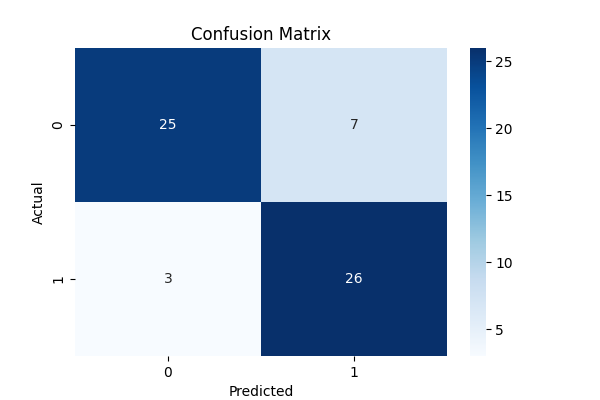
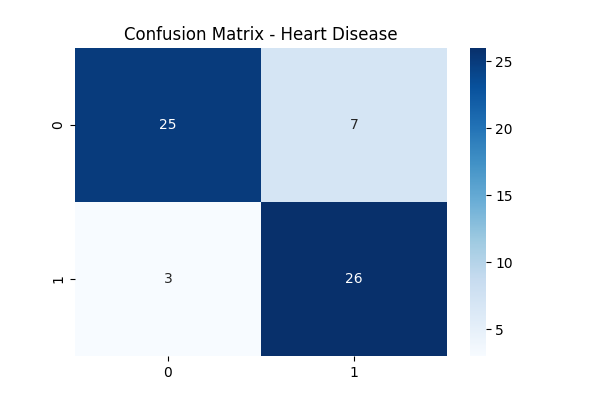
tambahan sedikit dan menyelesaikan kriteria 3

Changed region(s): [[0.21, 0.06, 0.66, 0.12], [0.36, 0.96, 0.51, 0.99], [0.03, 0.45, 0.09, 0.57]]

diff --git a/modelling_tuning.py b/modelling_tuning.py
@@ -5,19 +5,26 @@ import matplotlib.pyplot as plt
 import seaborn as sns
 from sklearn.model_selection import train_test_split, GridSearchCV
 from sklearn.ensemble import RandomForestClassifier
-from sklearn.metrics import accuracy_score, precision_score, recall_score, confusion_matrix, ConfusionMatrixDisplay
+from sklearn.metrics import accuracy_score, precision_score, recall_score, confusion_matrix
 import dagshub
 import os
-
-# 1. Integrasi DagsHub
-dagshub.init(repo_owner='SatriaDharma', repo_name='Membangun_model_I-Putu-Satria-Dharma-Wibawa', mlflow=True)
+import numpy as np
 
 def train_and_log():
-    # Load data dari folder preprocessing
+    # 1. Integrasi DagsHub dengan MLflow
+    if not os.getenv("MLFLOW_TRACKING_URI"):
+        print("Inisialisasi DagsHub secara manual...")
+        dagshub.init(
+            repo_owner='SatriaDharma', 
+            repo_name='Membangun_model_I-Putu-Satria-Dharma-Wibawa', 
+            mlflow=True
+        )
+
+    # 2. Load Data
     data_path = 'heart_preprocessing/heart_cleaned.csv'
-    
+
     if not os.path.exists(data_path):
-        print("Data tidak ditemukan!")
+        print(f"Data tidak ditemukan di: {data_path}")
         return
 
     df = pd.read_csv(data_path)
@@ -26,14 +33,14 @@ def train_and_log():
     
     X_train, X_test, y_train, y_test = train_test_split(X, y, test_size=0.2, random_state=42)
 
-    # Memulai Run MLflow
-    with mlflow.start_run(run_name="RandomForest_GridSearch"):
+    # Memulai Run MLflow (Nested)
+    with mlflow.start_run(run_name="RandomForest_Final_Model", nested=True):
         
-        # 2. Hyperparameter Tuning
+        # 3. Hyperparameter Tuning dengan GridSearchCV
         rf = RandomForestClassifier(random_state=42)
         param_grid = {
             'n_estimators': [50, 100],
-            'max_depth': [None, 10, 20],
+            'max_depth': [None, 10],
             'min_samples_split': [2, 5]
         }
         
@@ -42,33 +49,39 @@ def train_and_log():
         
         best_model = grid_search.best_estimator_
         
-        # 3. Manual Logging Hyperparameters dan Metrik
-        # Log Hyperparameters terbaik
+        # 4. Manging Logging Params dan Metrics
         mlflow.log_params(grid_search.best_params_)
         
-        # Hitung Metrik
         y_pred = best_model.predict(X_test)
         acc = accuracy_score(y_test, y_pred)
         prec = precision_score(y_test, y_pred)
         rec = recall_score(y_test, y_pred)
         
-        # Log Metrik ke MLflow
         mlflow.log_metric("accuracy", acc)
         mlflow.log_metric("precision", prec)
         mlflow.log_metric("recall", rec)
         
-        # 4. Artefak Logging (Confusion Matrix)
+        # 5. Artefak Logging Confusion Matrix
         cm = confusion_matrix(y_test, y_pred)
         plt.figure(figsize=(6,4))
         sns.heatmap(cm, annot=True, fmt='d', cmap='Blues')
-        plt.title('Confusion Matrix')
-        plt.xlabel('Predicted')
-        plt.ylabel('Actual')
+        plt.title('Confusion Matrix - Heart Disease')
         plt.savefig("confusion_matrix.png")
         mlflow.log_artifact("confusion_matrix.png")
         plt.close()
 
-        # 5. Register Model
+        # 6. Artefak Logging Feature Importance
+        importances = best_model.feature_importances_
+        indices = np.argsort(importances)
+        plt.figure(figsize=(10,6))
+        plt.title('Feature Importances')
+        plt.barh(range(len(indices)), importances[indices], align='center')
+        plt.yticks(range(len(indices)), [X.columns[i] for i in indices])
+        plt.savefig("feature_importance.png")
+        mlflow.log_artifact("feature_importance.png")
+        plt.close()
+
+        # 7. Register Model
         mlflow.sklearn.log_model(best_model, "heart_disease_rf_model")
         
         print(f"Eksperimen Selesai! Accuracy: {acc:.4f}")
